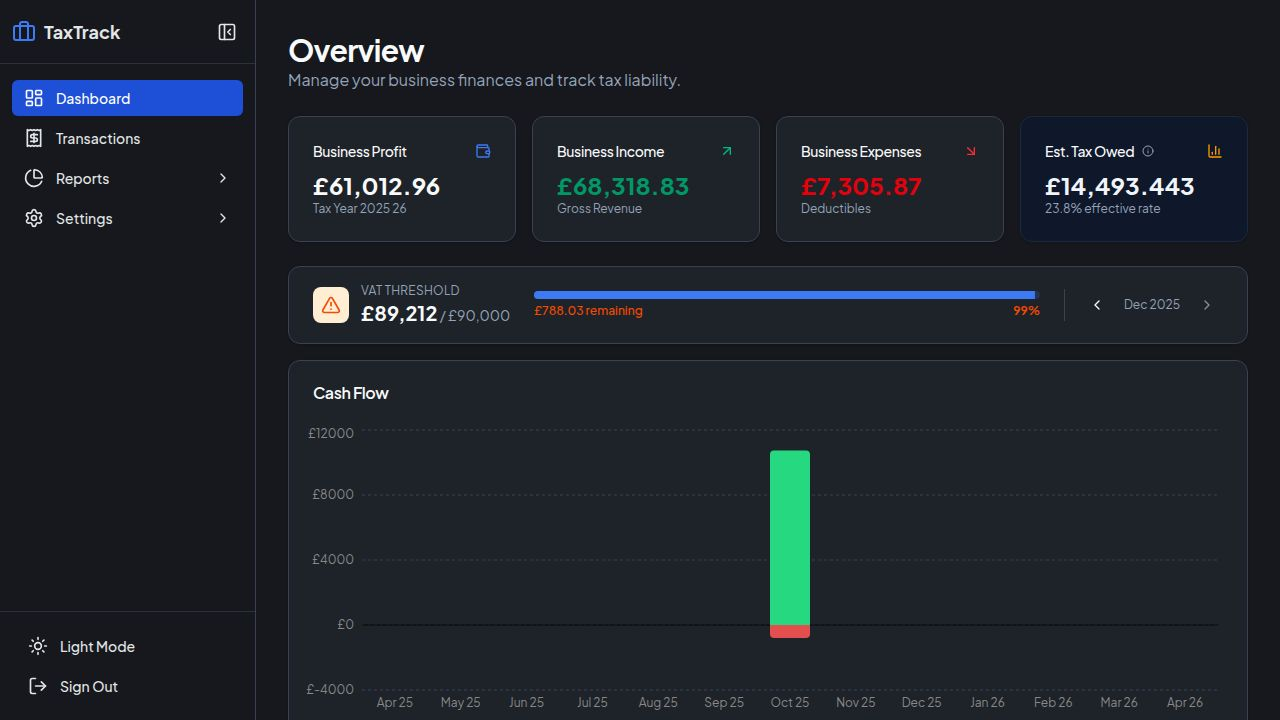
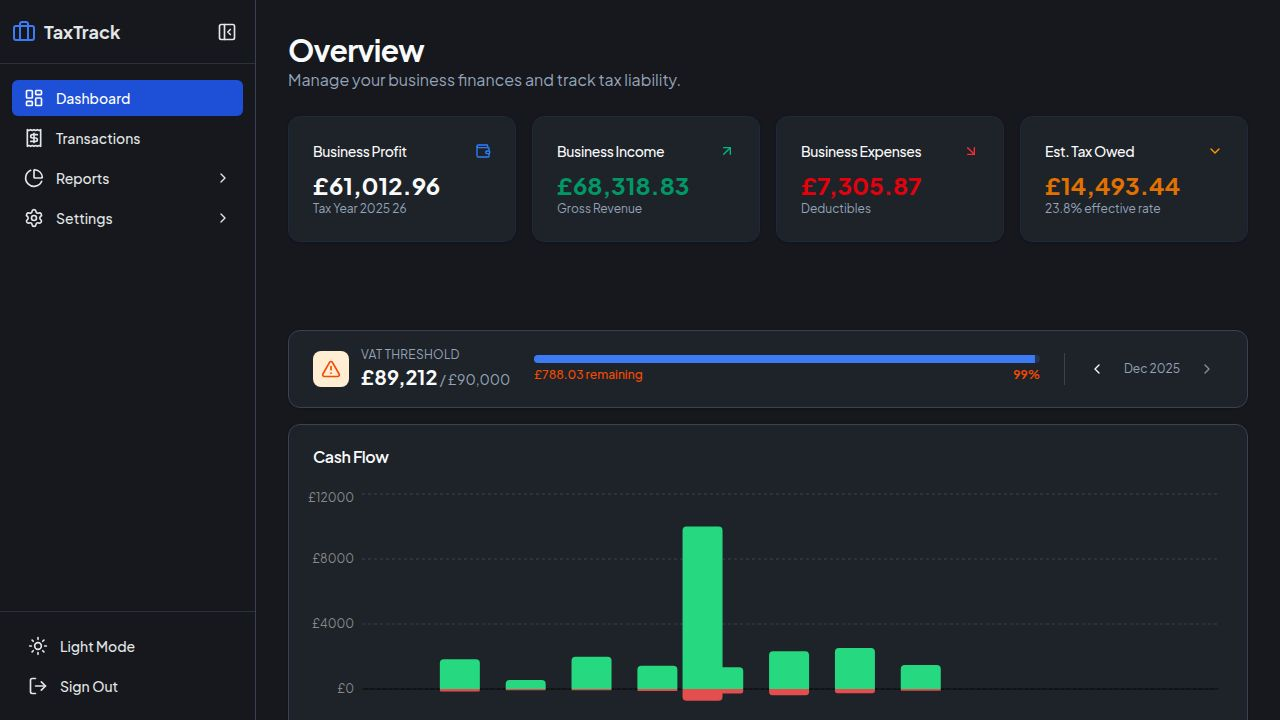
Improve visual spacing between report tabs and their content panels
Adjust the active tab card to extend down with extra padding and negative margin, and add top margin to panel containers to create visual separation between report tabs and their corresponding content panels in the StatCards component.

Replit-Commit-Author: Agent
Replit-Commit-Session-Id: e4b8620a-fae9-45ef-9bae-c88f8b89c91f
Replit-Commit-Checkpoint-Type: intermediate_checkpoint
Replit-Commit-Event-Id: 00b41774-22d0-4ea7-a3b7-345044ac045f
Replit-Commit-Screenshot-Url: https://storage.googleapis.com/screenshot-production-us-central1/74a6994d-dad0-4559-8ef7-1f8cbc5ddf37/e4b8620a-fae9-45ef-9bae-c88f8b89c91f/FySZeXa
Replit-Helium-Checkpoint-Created: true

diff --git a/client/src/components/dashboard/StatCards.tsx b/client/src/components/dashboard/StatCards.tsx
@@ -114,7 +114,7 @@ export function StatCards({ transactions, dateLabel }: StatCardsProps) {
     return cn(
       "cursor-pointer transition-all",
       isActive
-        ? `border-t-2 border-l-2 border-r-2 border-b-0 ${borderColor} rounded-b-none ${baseColor}`
+        ? `border-t-2 border-l-2 border-r-2 border-b-0 ${borderColor} rounded-b-none ${baseColor} pb-6 mb-[-1rem] relative z-10`
         : "border border-slate-200 dark:border-slate-800"
     );
   };
@@ -209,7 +209,7 @@ export function StatCards({ transactions, dateLabel }: StatCardsProps) {
       
       {/* Profit Breakdown Panel */}
       <div className={cn(
-        "overflow-hidden transition-all duration-300 ease-in-out",
+        "overflow-hidden transition-all duration-300 ease-in-out mt-4",
         activeTab === 'profit' ? "max-h-[500px] opacity-100" : "max-h-0 opacity-0"
       )}>
         <Card className="border-0 border-l-2 border-r-2 border-b-2 border-blue-500 dark:border-blue-500 rounded-t-none bg-blue-50 dark:bg-blue-950">
@@ -271,7 +271,7 @@ export function StatCards({ transactions, dateLabel }: StatCardsProps) {
 
       {/* Income Breakdown Panel */}
       <div className={cn(
-        "overflow-hidden transition-all duration-300 ease-in-out",
+        "overflow-hidden transition-all duration-300 ease-in-out mt-4",
         activeTab === 'income' ? "max-h-[500px] opacity-100" : "max-h-0 opacity-0"
       )}>
         <Card className="border-0 border-l-2 border-r-2 border-b-2 border-emerald-500 dark:border-emerald-500 rounded-t-none bg-emerald-50 dark:bg-emerald-950">
@@ -330,7 +330,7 @@ export function StatCards({ transactions, dateLabel }: StatCardsProps) {
 
       {/* Expenses Breakdown Panel */}
       <div className={cn(
-        "overflow-hidden transition-all duration-300 ease-in-out",
+        "overflow-hidden transition-all duration-300 ease-in-out mt-4",
         activeTab === 'expenses' ? "max-h-[500px] opacity-100" : "max-h-0 opacity-0"
       )}>
         <Card className="border-0 border-l-2 border-r-2 border-b-2 border-red-500 dark:border-red-500 rounded-t-none bg-red-50 dark:bg-red-950">
@@ -387,7 +387,7 @@ export function StatCards({ transactions, dateLabel }: StatCardsProps) {
 
       {/* Tax Breakdown Panel */}
       <div className={cn(
-        "overflow-hidden transition-all duration-300 ease-in-out",
+        "overflow-hidden transition-all duration-300 ease-in-out mt-4",
         activeTab === 'tax' ? "max-h-[500px] opacity-100" : "max-h-0 opacity-0"
       )}>
         <Card className="border-0 border-l-2 border-r-2 border-b-2 border-amber-500 dark:border-amber-500 rounded-t-none bg-amber-50 dark:bg-amber-950">
